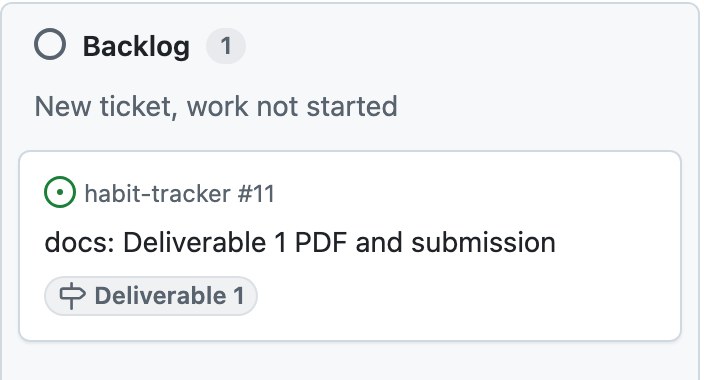
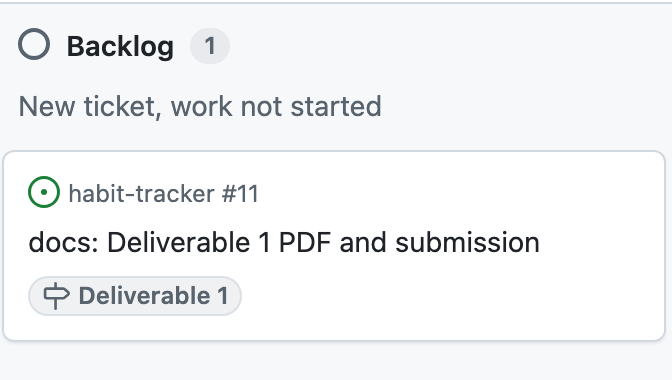
docs: Figures 11 and 12 re-captured or trimmed so their text prints at about 9 pt (Issue 11)

diff --git a/docs/deliverable-1/deliverable-1.md b/docs/deliverable-1/deliverable-1.md
@@ -2423,11 +2423,11 @@ All six reached `main` through the release PR #61 (merge `64831f7`, tag `v1.0`).
 | Release review (PR #61) | projectnewy's PR comment before approving, 2026-11-10 13:30 +07: "The candidate `03e039e` is the current `origin/staging` (the merge of #60), so no commit was added after the test run." "Secrets: no `.env` file is tracked (only `server/.env.example` with placeholders) …" "Board: every Sprint 1 card is Done except #10." "No blocking findings." | same release review |
 | Board | Issue #42 Done | Issue #53 Done |
 
-<figure style="width:60%"><img src="img/f-pr43-review.png"><figcaption>Figure 11. PR #43 (F-08), phittayanan's approving re-review: each requested change was checked by moving the code back and watching the test fail. Public page, captured logged out on 2026-11-10.</figcaption></figure>
+<figure style="width:63%"><img src="img/f-pr43-review.png"><figcaption>Figure 11. PR #43 (F-08), phittayanan's approving re-review: each requested change was checked by moving the code back and watching the test fail. Public page, captured logged out on 2026-11-10.</figcaption></figure>
 
 
 
-<figure style="width:90%"><div class="imgs"><img src="img/f-board-backlog.png" style="width:48%;vertical-align:top"> <img src="img/f-board-done.png" style="width:48%;vertical-align:top"></div><figcaption>Figure 12. Project board "habit-tracker board", view "Deliverable 1" (filter milestone "Deliverable 1", 23 items), captured logged out on 2026-11-10 after the release and cropped to two columns: Backlog 1 (Issue #11, this PDF and its submission) and Done 22. The Done column continues below the part shown.</figcaption></figure>
+<figure style="width:100%"><div class="imgs"><img src="img/f-board-backlog.png" style="width:49.5%;vertical-align:top"> <img src="img/f-board-done.png" style="width:49.5%;vertical-align:top"></div><figcaption>Figure 12. Project board "habit-tracker board", view "Deliverable 1" (filter milestone "Deliverable 1", 23 items), captured logged out on 2026-11-10 after the release and cropped to two columns: Backlog 1 (Issue #11, this PDF and its submission) and Done 22. The Done column continues below the part shown.</figcaption></figure>
 
 <div class="keep">
 
